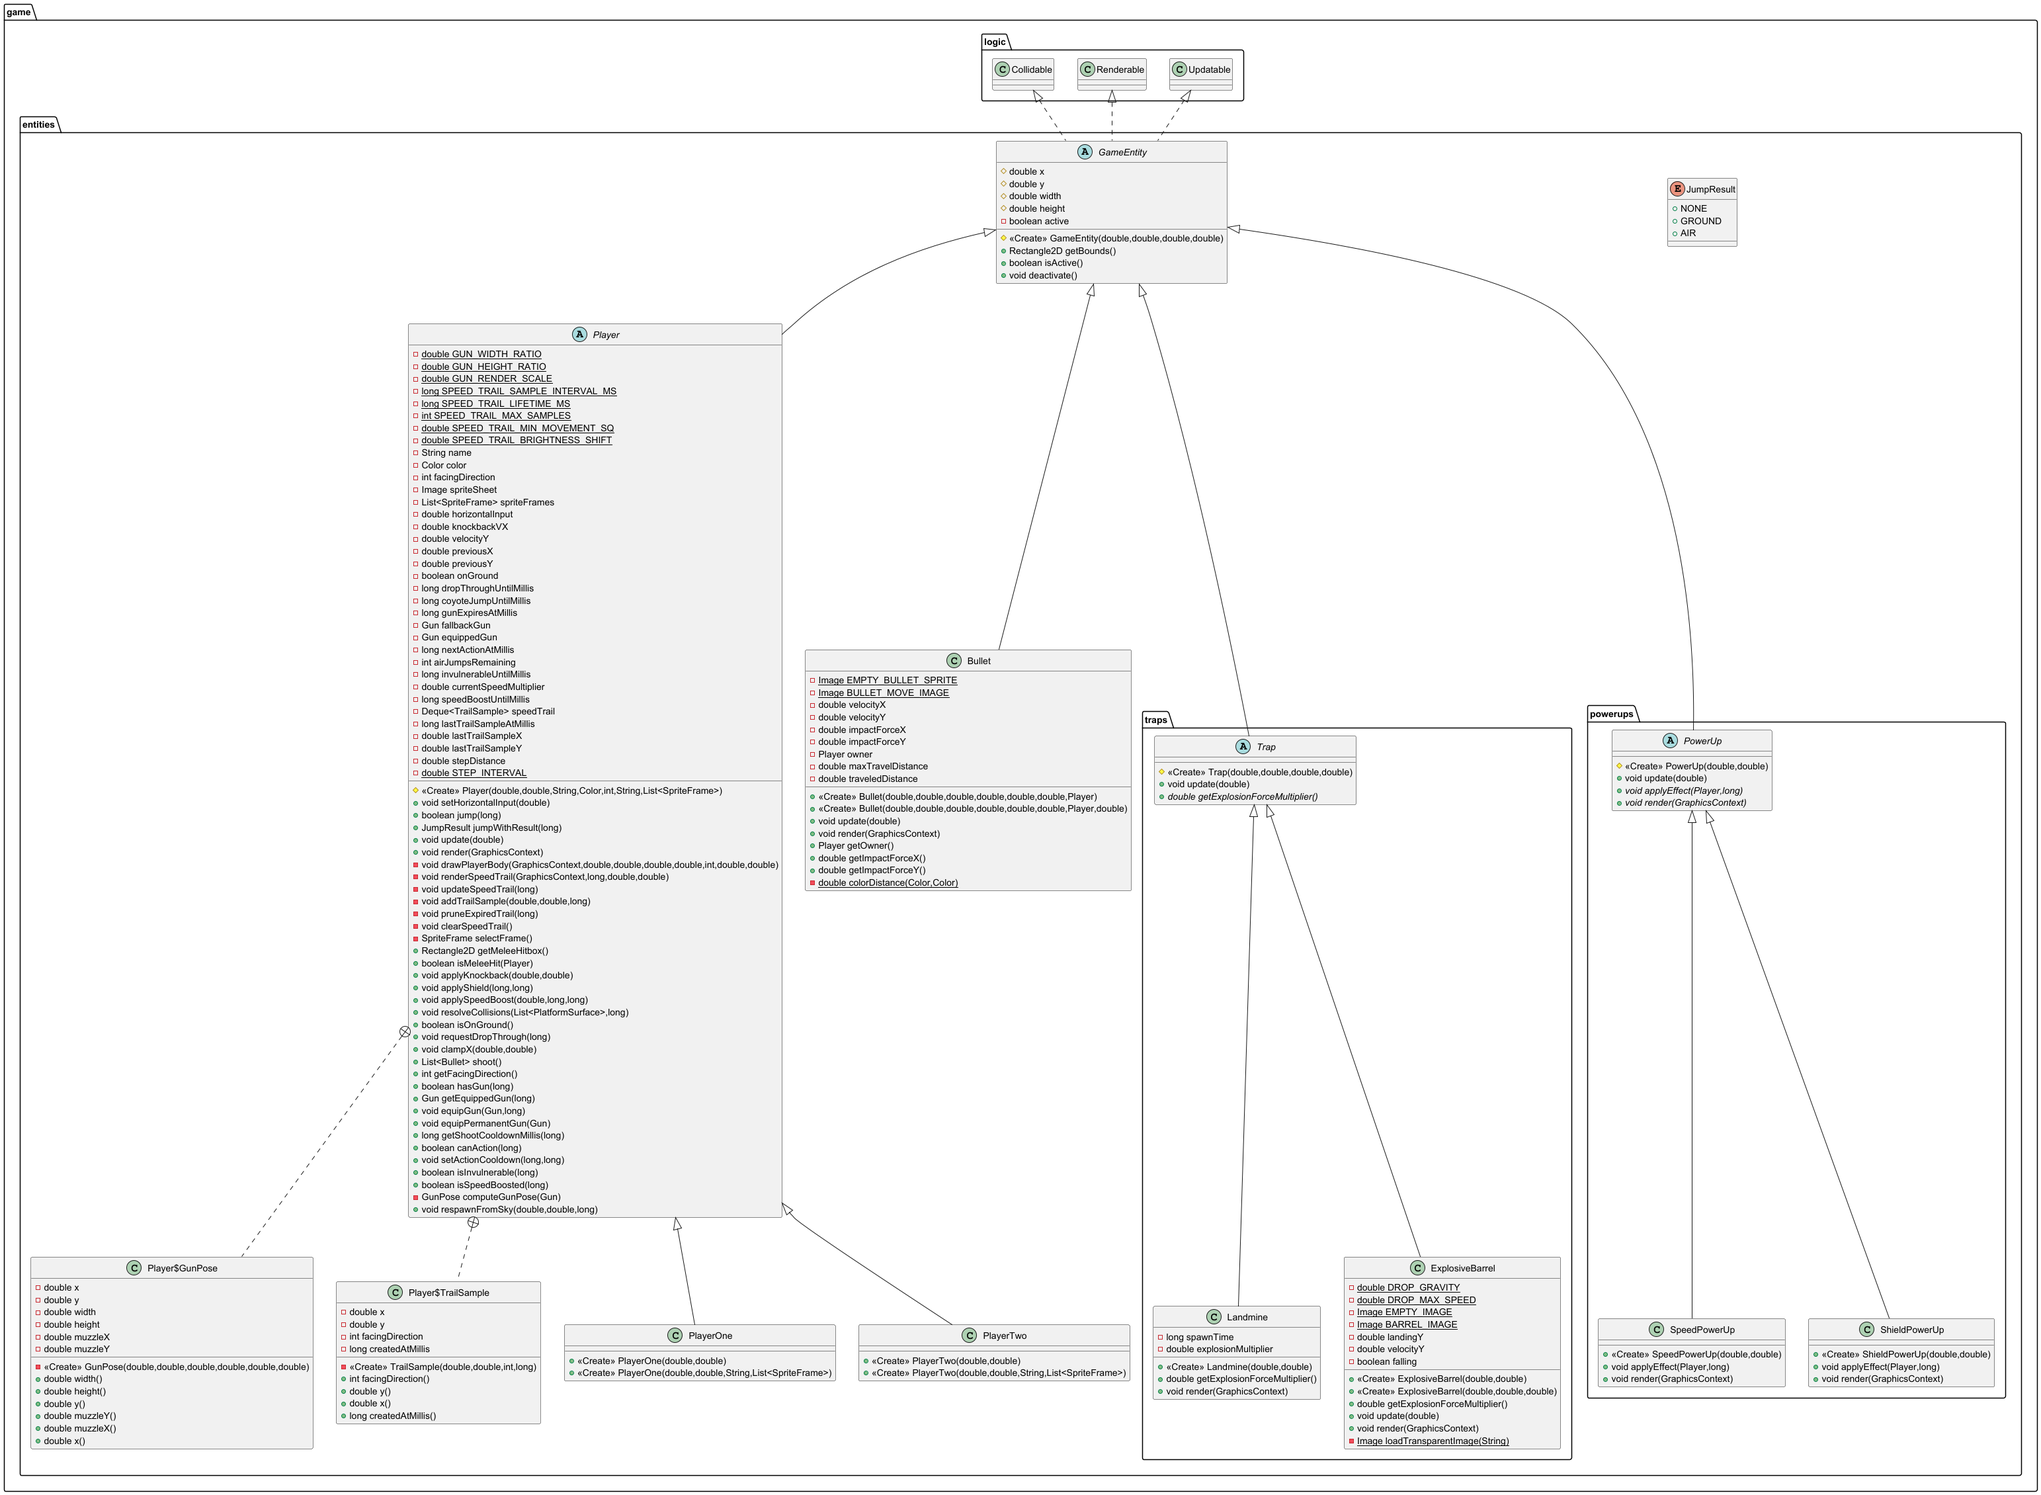
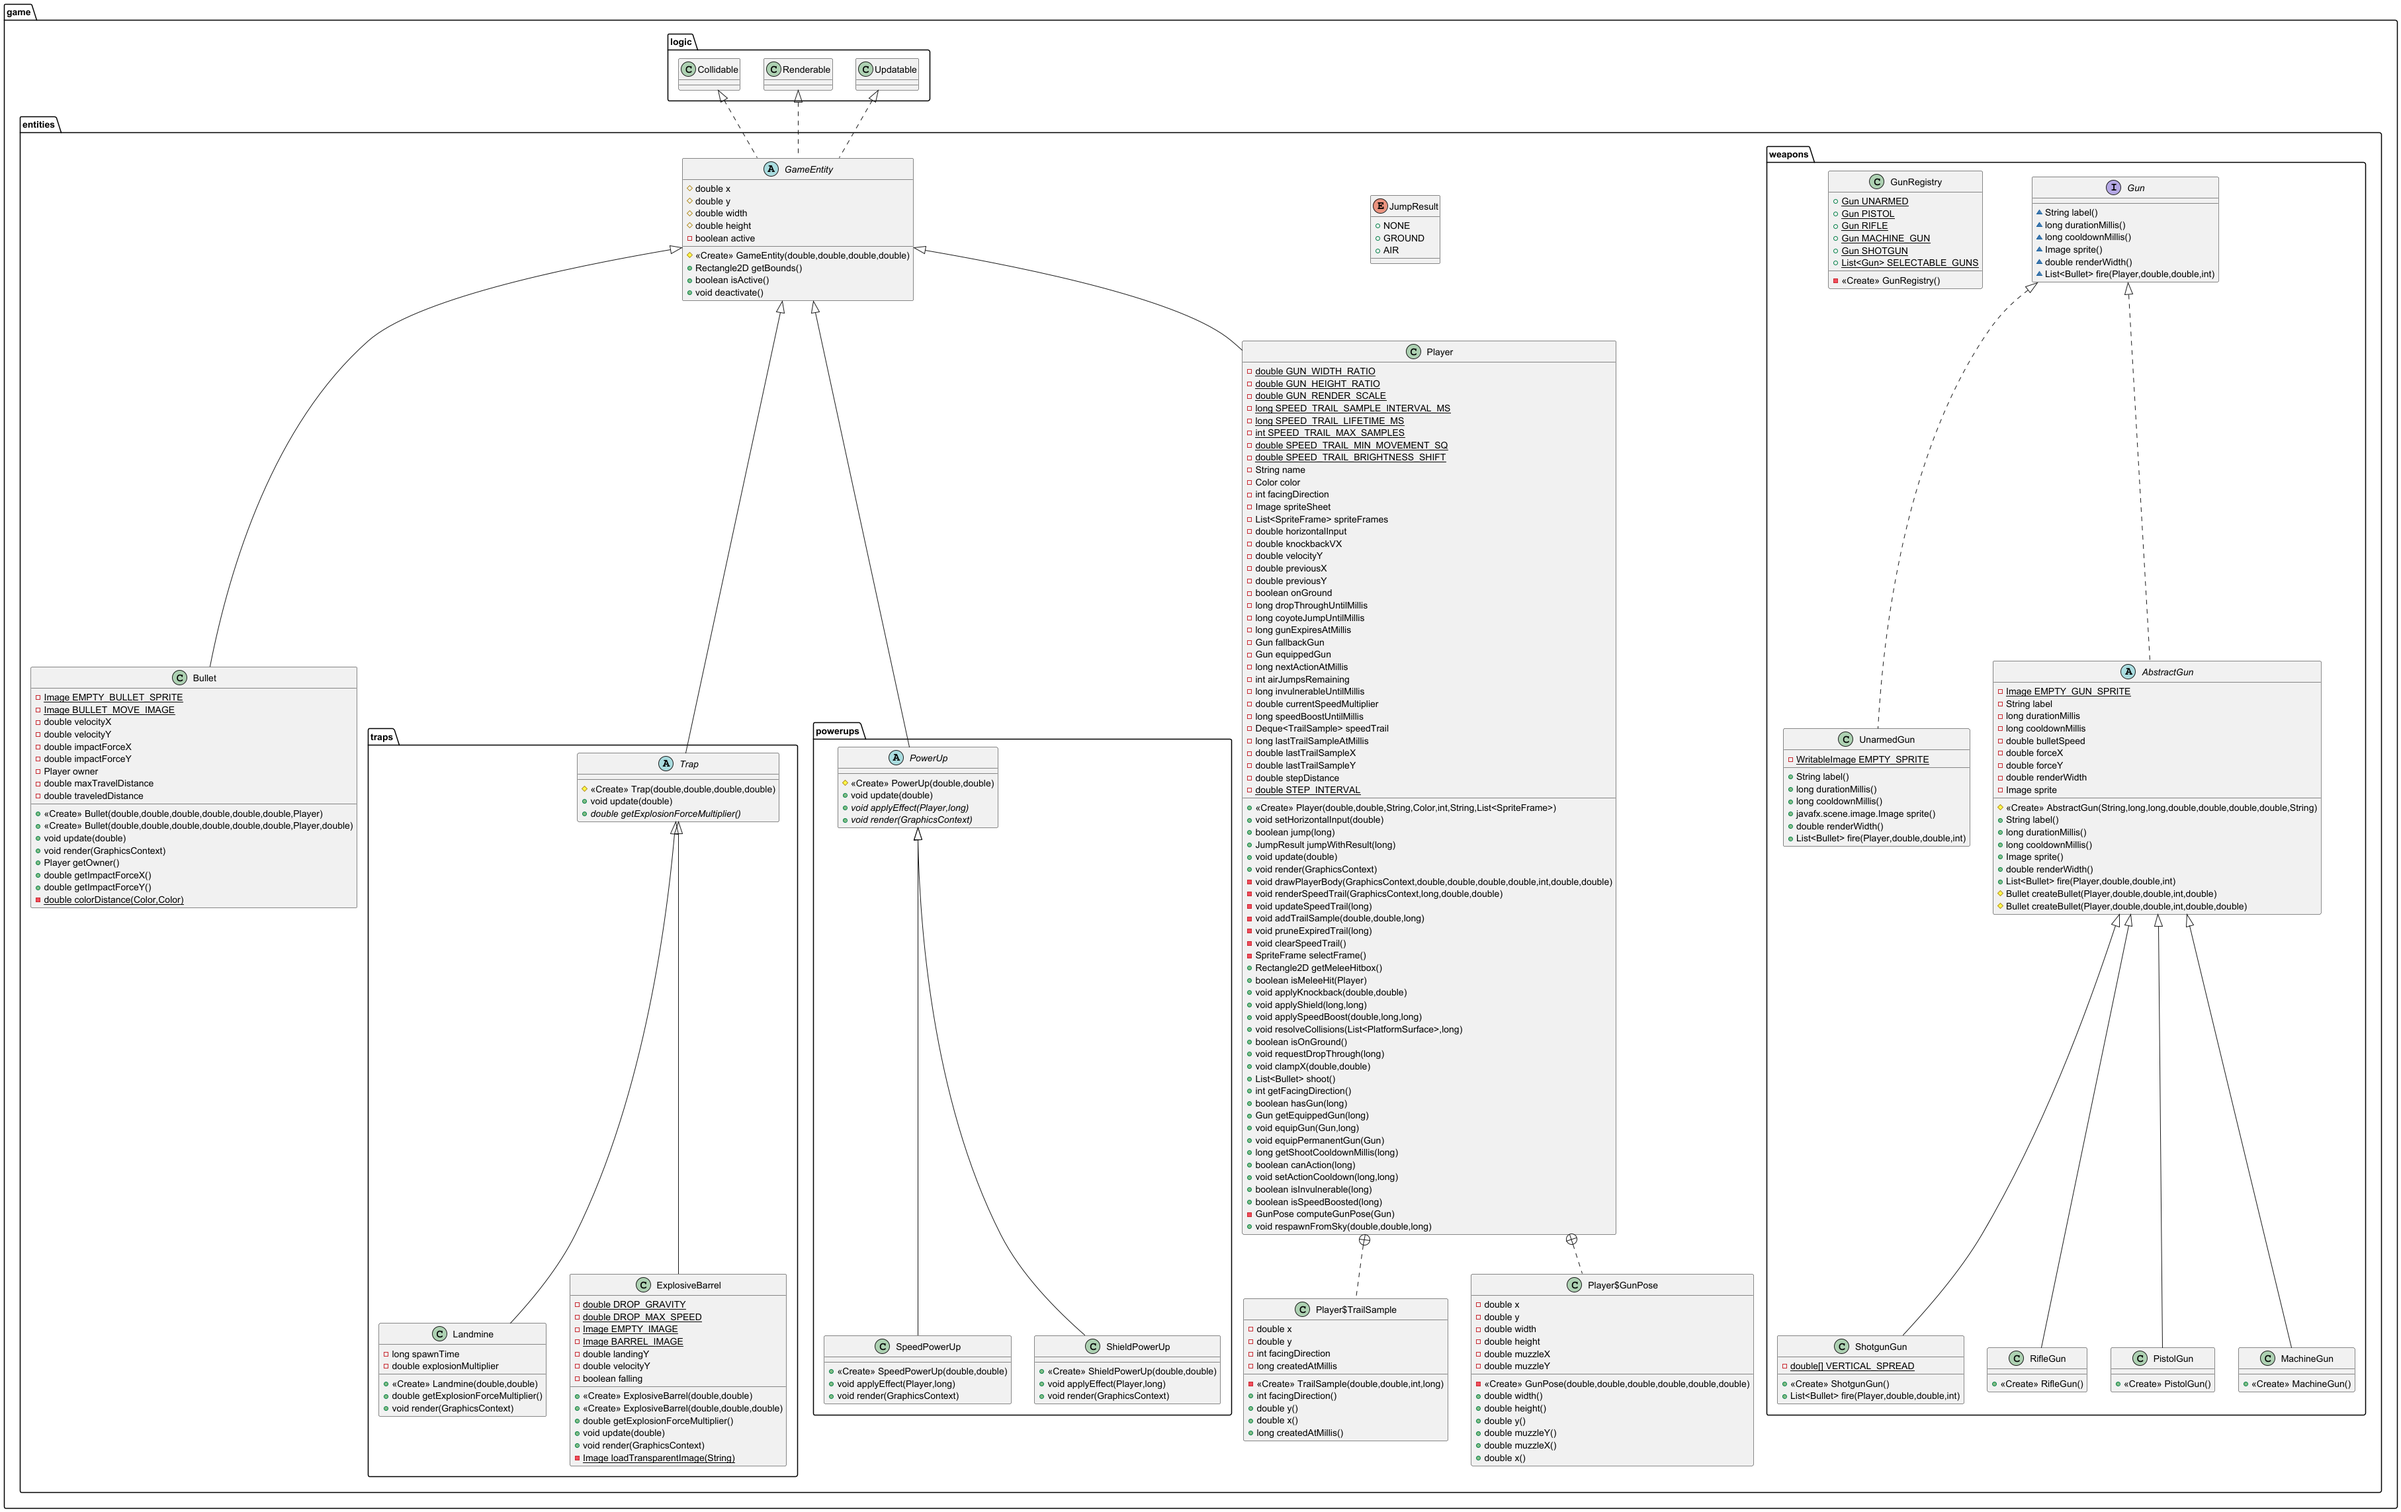
Fixed Player Class & Remove Class Player1, Player2

diff --git a/src/main/java/game/ui/GamePanel.java b/src/main/java/game/ui/GamePanel.java
@@ -3,8 +3,6 @@ package game.ui;
 import game.config.GameSettings;
 import game.entities.Bullet;
 import game.entities.Player;
-import game.entities.PlayerOne;
-import game.entities.PlayerTwo;
 import game.entities.powerups.PowerUp;
 import game.entities.traps.Landmine;
 import game.entities.traps.Trap;
@@ -65,8 +63,8 @@ public class GamePanel extends StackPane {
     private final Image bloodImage = GameImageLoader.loadTransparentImage(GamePanel.class, "/images/effects/Blood.png");
     private final Image explosionImage = GameImageLoader.loadTransparentImage(GamePanel.class, "/images/effects/Explosion.png");
 
-    private final PlayerOne p1;
-    private final PlayerTwo p2;
+    private final Player p1;
+    private final Player p2;
 
     private final List<Bullet> bullets = new ArrayList<>();
     private final MatchDropCoordinator dropCoordinator;
@@ -130,13 +128,23 @@ public class GamePanel extends StackPane {
         this.traps = dropCoordinator.traps();
         this.powerUps = dropCoordinator.powerUps();
 
-        p1 = new PlayerOne(
+        p1 = new Player(
                 this.selectedMap.playerOneSpawnX(),
-                this.selectedMap.spawnGroundY() - GameSettings.PLAYER_HEIGHT
+                this.selectedMap.spawnGroundY() - GameSettings.PLAYER_HEIGHT,
+                "P1",
+                Color.DODGERBLUE,
+                1,
+                "/images/players/Player1.png",
+                List.of()
         );
-        p2 = new PlayerTwo(
+        p2 = new Player(
                 this.selectedMap.playerTwoSpawnX(),
-                this.selectedMap.spawnGroundY() - GameSettings.PLAYER_HEIGHT
+                this.selectedMap.spawnGroundY() - GameSettings.PLAYER_HEIGHT,
+                "P2",
+                Color.CRIMSON,
+                -1,
+                "/images/players/Player2.png",
+                List.of()
         );
         p1.equipPermanentGun(p1Weapon);
         p2.equipPermanentGun(p2Weapon);

diff --git a/src/test/java/game/entities/PlayerVariantsTest.java b/src/test/java/game/entities/PlayerVariantsTest.java
@@ -2,6 +2,7 @@ package game.entities;
 
 import game.logic.SpriteFrame;
 import game.testutil.FxTestUtils;
+import javafx.scene.paint.Color;
 import org.junit.jupiter.api.BeforeAll;
 import org.junit.jupiter.api.Test;
 
@@ -17,20 +18,24 @@ class PlayerVariantsTest {
     }
 
     @Test
-    void playerOne_constructorsCreateInstance() {
-        PlayerOne p1a = new PlayerOne(10, 20);
+    void player_constructorCanCreateP1StyleInstance() {
+        Player p1a = new Player(10, 20, "P1", Color.DODGERBLUE, 1, null, List.of());
         assertNotNull(p1a);
+        assertEquals(1, p1a.getFacingDirection());
 
-        PlayerOne p1b = new PlayerOne(10, 20, null, List.of(new SpriteFrame(0, 0, 1, 1)));
+        Player p1b = new Player(10, 20, "P1", Color.DODGERBLUE, 1, null, List.of(new SpriteFrame(0, 0, 1, 1)));
         assertNotNull(p1b);
+        assertEquals(1, p1b.getFacingDirection());
     }
 
     @Test
-    void playerTwo_constructorsCreateInstance() {
-        PlayerTwo p2a = new PlayerTwo(30, 40);
+    void player_constructorCanCreateP2StyleInstance() {
+        Player p2a = new Player(30, 40, "P2", Color.CRIMSON, -1, null, List.of());
         assertNotNull(p2a);
+        assertEquals(-1, p2a.getFacingDirection());
 
-        PlayerTwo p2b = new PlayerTwo(30, 40, null, List.of(new SpriteFrame(0, 0, 1, 1)));
+        Player p2b = new Player(30, 40, "P2", Color.CRIMSON, -1, null, List.of(new SpriteFrame(0, 0, 1, 1)));
         assertNotNull(p2b);
+        assertEquals(-1, p2b.getFacingDirection());
     }
 }

diff --git a/src/main/java/game/entities/Player.java b/src/main/java/game/entities/Player.java
@@ -18,7 +18,7 @@ import java.util.Deque;
 import java.util.List;
 import java.util.Objects;
 
-public abstract class Player extends GameEntity {
+public class Player extends GameEntity {
     public enum JumpResult {
         NONE,
         GROUND,
@@ -66,7 +66,7 @@ public abstract class Player extends GameEntity {
     private double stepDistance;
     private static final double STEP_INTERVAL = 60.0;
 
-    protected Player(
+    public Player(
             double startX,
             double startY,
             String name,
